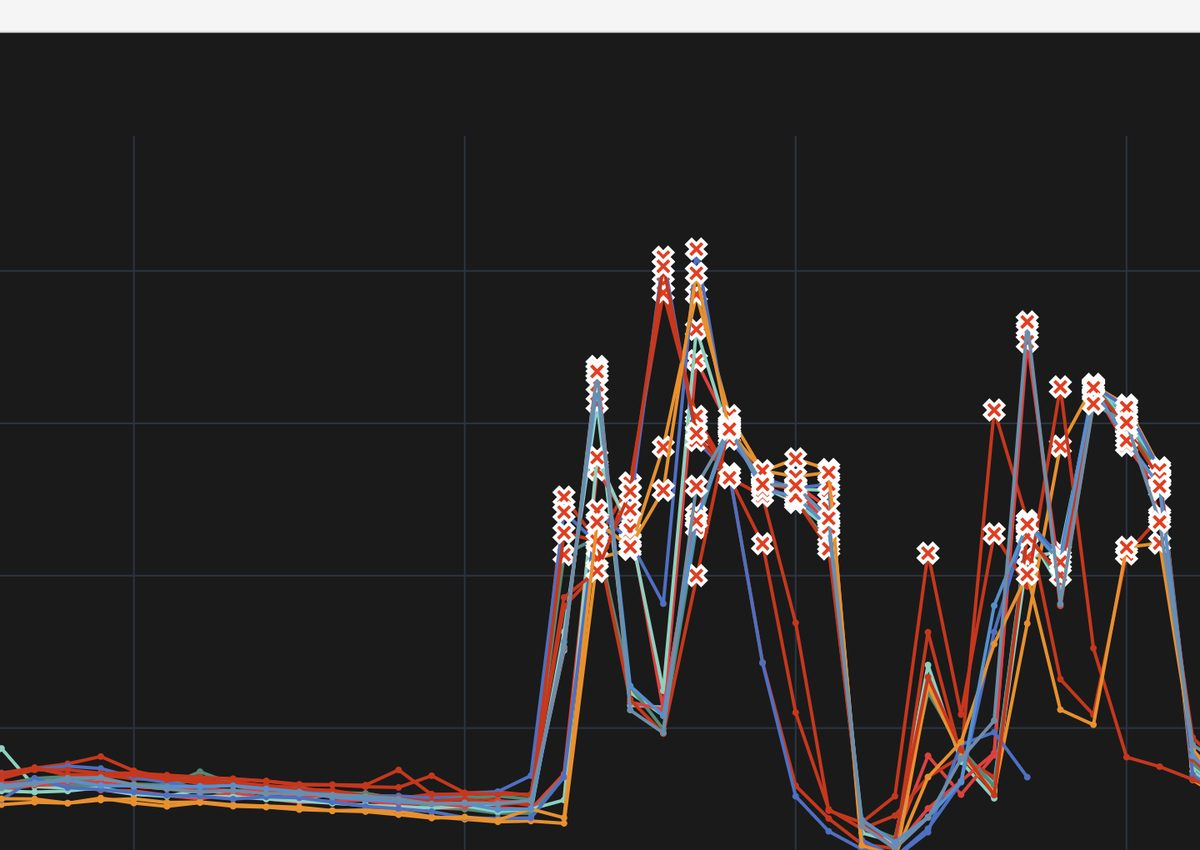
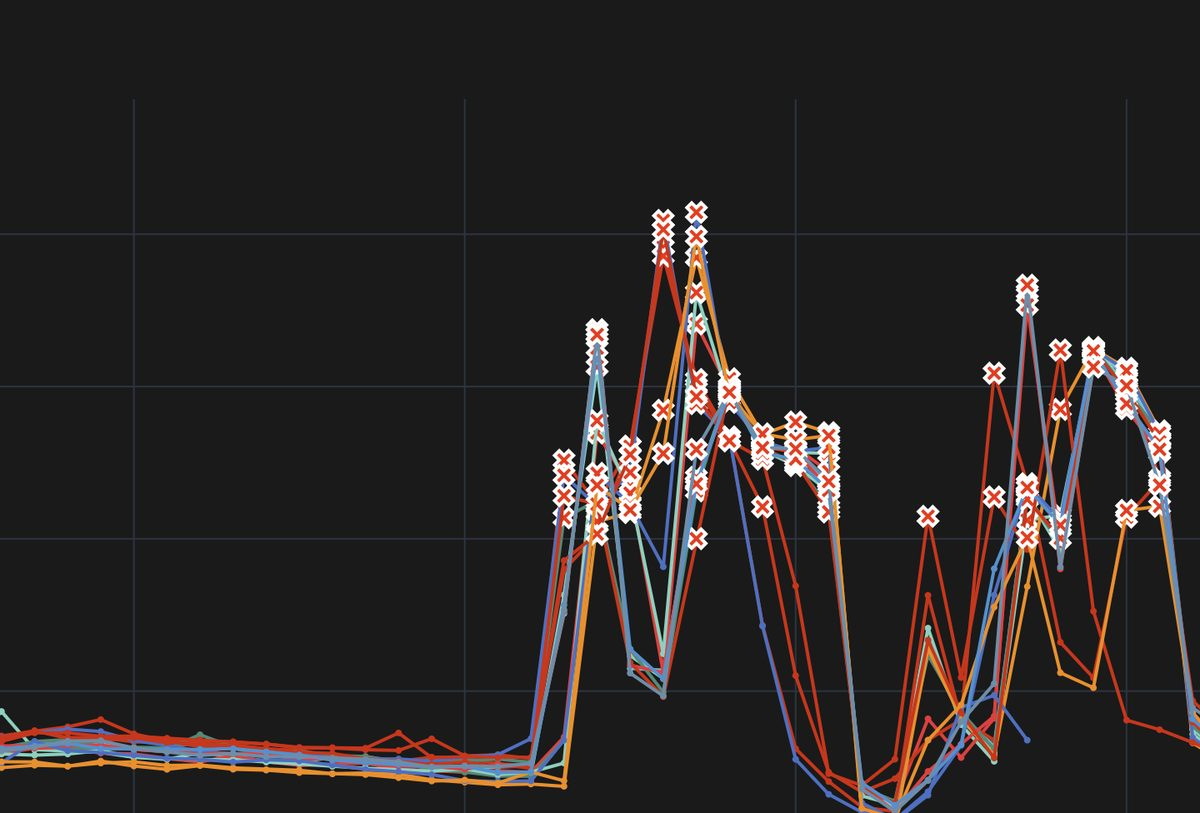
Add a light/dark theme switch that follows the system until toggled

Changed region(s): [[0.0, 0.246, 1.0, 1.0], [0.0, 0.0, 1.0, 0.0615]]

diff --git a/styles.css b/styles.css
@@ -6,6 +6,22 @@
   --muted: #6b6e76;
   --hairline: #ecece8;
   --chip: #f4f4f2;
+  --text-soft: #5b5e66;
+  --line-strong: #d9d9d4;
+  --panel-line: #e6e6e2;
+  --tile: #e9e9e5;
+  --surface: #ffffff;
+  --shadow-soft: rgba(20, 30, 60, 0.12);
+  --mock-rings: #eef0f6;
+  --mock-rulebook: #e9ecf2;
+  --mock-media: #eef2ef;
+  --mock-line: #e4e6ea;
+  --mock-chip: #f1f2f4;
+  --tag-bg: #e5efe9;
+  --tag-fg: #1d5c3d;
+  --btn-dark-bg: #121316;
+  --btn-dark-fg: #f2f2ef;
+  --btn-dark-hover: #000000;
 
   --card: #121316;
   --card-raised: #1c1e23;
@@ -30,12 +46,45 @@
   color-scheme: light;
 }
 
+/* Dark theme: set on <html data-theme="dark"> by the toggle, or from the system setting on first visit */
+:root[data-theme="dark"] {
+  --ground: #0b0c0e;
+  --paper: #141518;
+  --ink: #ecebe7;
+  --text: #c6c8cd;
+  --muted: #979ba4;
+  --hairline: #25272c;
+  --chip: #1f2126;
+  --text-soft: #a8abb2;
+  --line-strong: #34373e;
+  --panel-line: #212328;
+  --tile: #1f2126;
+  --surface: #1c1e22;
+  --shadow-soft: rgba(0, 0, 0, 0.45);
+  --mock-rings: #191c26;
+  --mock-rulebook: #181b22;
+  --mock-media: #161c19;
+  --mock-line: #2e3138;
+  --mock-chip: #26292f;
+  --tag-bg: #1d3328;
+  --tag-fg: #8fd4ae;
+  --btn-dark-bg: #ecebe7;
+  --btn-dark-fg: #121316;
+  --btn-dark-hover: #ffffff;
+  --card: #18191d;
+  --card-raised: #222429;
+  --card-button: #26282e;
+  --blue: #6f8fe0;
+  color-scheme: dark;
+}
+
 *, *::before, *::after { box-sizing: border-box; }
 
 html { scroll-behavior: smooth; -webkit-text-size-adjust: 100%; }
 
 body {
   margin: 0;
+  transition: background-color 300ms ease, color 300ms ease;
   background: var(--ground);
   color: var(--ink);
   font-family: var(--body);
@@ -163,7 +212,7 @@ h1, h2, h3, p { margin: 0; }
 .panel {
   min-width: 0;
   overflow: hidden;
-  border: 1px solid #e6e6e2;
+  border: 1px solid var(--panel-line);
   border-radius: var(--radius-lg);
   background: var(--paper);
 }
@@ -171,8 +220,23 @@ h1, h2, h3, p { margin: 0; }
 .topbar { display: flex; justify-content: space-between; align-items: center; gap: 16px; flex-wrap: wrap; padding: 22px 28px; }
 .pill { padding: 8px 14px; border-radius: 999px; background: var(--chip); font-size: 14px; }
 .pill-link { display: inline-flex; align-items: center; gap: 8px; font-weight: 600; text-decoration: none; transition: background-color 200ms ease, color 200ms ease; }
-.pill-link:hover { background: var(--card); color: var(--card-ink); }
+.pill-link:hover { background: var(--btn-dark-bg); color: var(--btn-dark-fg); }
 .pill-link svg { width: 15px; height: 15px; fill: none; stroke: currentColor; stroke-width: 2; stroke-linecap: round; stroke-linejoin: round; }
+.theme-switch {
+  position: relative; display: inline-flex; align-items: center; justify-content: space-between;
+  width: 72px; height: 38px; padding: 0 10px;
+  border: 0; border-radius: 999px; background: var(--chip); color: var(--muted); cursor: pointer;
+}
+.theme-switch svg { position: relative; z-index: 1; width: 16px; height: 16px; fill: none; stroke: currentColor; stroke-width: 2; stroke-linecap: round; stroke-linejoin: round; transition: color 250ms ease; }
+.theme-switch .knob {
+  position: absolute; top: 4px; left: 4px; width: 30px; height: 30px; border-radius: 50%;
+  background: var(--paper); box-shadow: 0 1px 4px rgba(0, 0, 0, 0.18);
+  transition: transform 300ms cubic-bezier(0.2, 0.8, 0.2, 1);
+}
+.theme-switch .sun { color: var(--ink); }
+.theme-switch[aria-checked="true"] .knob { transform: translateX(34px); background: #3b3e46; box-shadow: 0 1px 4px rgba(0, 0, 0, 0.5); }
+.theme-switch[aria-checked="true"] .sun { color: var(--muted); }
+.theme-switch[aria-checked="true"] .moon { color: #f2f2ef; }
 .local-time time { font-variant-numeric: tabular-nums; }
 .based { text-align: right; font-size: 13px; line-height: 1.3; color: var(--muted); }
 .based strong { color: var(--ink); }
@@ -190,7 +254,7 @@ section { scroll-margin-top: var(--gap); }
   font-size: clamp(56px, 9vw, 112px); line-height: 1; letter-spacing: -0.04em;
   text-wrap: balance;
 }
-.intro { max-width: 48ch; font-size: clamp(17px, 1.6vw, 20px); line-height: 1.6; color: #5b5e66; }
+.intro { max-width: 48ch; font-size: clamp(17px, 1.6vw, 20px); line-height: 1.6; color: var(--text-soft); }
 
 /* gallery */
 .gallery-wrap { position: relative; }
@@ -199,7 +263,7 @@ section { scroll-margin-top: var(--gap); }
 .gallery-btns { display: flex; gap: 8px; }
 .gallery-btn {
   display: grid; place-items: center; width: 44px; height: 44px;
-  border: 1px solid #e0e0db; border-radius: 50%; background: var(--paper); color: var(--ink); cursor: pointer;
+  border: 1px solid var(--line-strong); border-radius: 50%; background: var(--paper); color: var(--ink); cursor: pointer;
   transition: background-color 200ms ease, opacity 200ms ease;
 }
 .gallery-btn:hover { background: var(--chip); }
@@ -219,7 +283,7 @@ section { scroll-margin-top: var(--gap); }
   flex: 0 0 240px; height: 300px;
   padding: 0; border: 0; border-radius: var(--radius-lg);
   overflow: hidden; cursor: zoom-in;
-  background: #e9e9e5;
+  background: var(--tile);
   scroll-snap-align: start;
 }
 .shot img { width: 100%; height: 100%; object-fit: cover; display: block; transition: transform 500ms ease; }
@@ -279,7 +343,7 @@ button.project { padding: 0; border: 0; background: none; font: inherit; color: 
 .project:hover .art { transform: translateY(-4px); }
 .art-rings span { position: absolute; }
 
-.art-rings { background: #eef0f6; }
+.art-rings { background: var(--mock-rings); }
 .art-rings span { left: 50%; top: 50%; transform: translate(-50%, -50%); border-radius: 50%; border: 1.5px solid var(--blue); }
 .art-rings span:nth-child(1) { width: 44%; aspect-ratio: 1; }
 .art-rings span:nth-child(2) { width: 27%; aspect-ratio: 1; }
@@ -301,15 +365,15 @@ button.project { padding: 0; border: 0; background: none; font: inherit; color: 
   box-shadow: 0 2cqw 5cqw rgba(0, 0, 0, 0.35);
 }
 
-.art-rulebook { background: #e9ecf2; }
+.art-rulebook { background: var(--mock-rulebook); }
 .mock-doc {
   left: 7cqw; top: 8cqw; width: 52cqw; height: 66cqw;
   display: flex; flex-direction: column; gap: 3cqw;
-  padding: 6cqw 5cqw; border-radius: 2.4cqw; background: #ffffff;
-  box-shadow: 0 1.5cqw 5cqw rgba(20, 30, 60, 0.12);
+  padding: 6cqw 5cqw; border-radius: 2.4cqw; background: var(--surface);
+  box-shadow: 0 1.5cqw 5cqw var(--shadow-soft);
 }
 .mock-doc-title { font-size: 3cqw; font-weight: 700; line-height: 1.25; margin-bottom: 1.5cqw; }
-.mock-line { display: block; height: 1.8cqw; border-radius: 1cqw; background: #e4e6ea; }
+.mock-line { display: block; height: 1.8cqw; border-radius: 1cqw; background: var(--mock-line); }
 .mock-line.short { width: 64%; }
 .mock-line.hl { background: rgba(200, 16, 46, 0.22); }
 .mock-chat { right: 6cqw; bottom: 8cqw; width: 50cqw; display: flex; flex-direction: column; gap: 2.4cqw; }
@@ -319,34 +383,34 @@ button.project { padding: 0; border: 0; background: none; font: inherit; color: 
 }
 .mock-a {
   display: flex; flex-direction: column; gap: 2cqw; padding: 3.4cqw; border-radius: 4cqw 4cqw 4cqw 1cqw;
-  background: #ffffff; box-shadow: 0 1.5cqw 5cqw rgba(20, 30, 60, 0.12);
+  background: var(--surface); box-shadow: 0 1.5cqw 5cqw var(--shadow-soft);
 }
-.mock-cite { align-self: flex-start; margin-top: 0.8cqw; padding: 1cqw 2.4cqw; border-radius: 99px; background: #f1f2f4; color: #5b5e66; font-size: 2.5cqw; font-weight: 600; }
+.mock-cite { align-self: flex-start; margin-top: 0.8cqw; padding: 1cqw 2.4cqw; border-radius: 99px; background: var(--mock-chip); color: var(--text-soft); font-size: 2.5cqw; font-weight: 600; }
 
-.art-media { background: #eef2ef; }
+.art-media { background: var(--mock-media); }
 .mock-upload {
   left: 8cqw; top: 8cqw; width: 58cqw; height: 60cqw;
-  border-radius: 3cqw; overflow: hidden; background: #ffffff;
-  box-shadow: 0 1.5cqw 5cqw rgba(20, 40, 30, 0.14);
+  border-radius: 3cqw; overflow: hidden; background: var(--surface);
+  box-shadow: 0 1.5cqw 5cqw var(--shadow-soft);
 }
 .mock-upload img { width: 100%; height: 72%; object-fit: cover; display: block; }
 .mock-tags { display: flex; flex-wrap: wrap; gap: 1.6cqw; padding: 2.6cqw; }
-.mock-tags span { padding: 1cqw 2.4cqw; border-radius: 99px; background: #e5efe9; color: #1d5c3d; font-size: 2.6cqw; font-weight: 600; }
+.mock-tags span { padding: 1cqw 2.4cqw; border-radius: 99px; background: var(--tag-bg); color: var(--tag-fg); font-size: 2.6cqw; font-weight: 600; }
 .mock-queue { right: 7cqw; top: 14cqw; display: flex; flex-direction: column; gap: 2.4cqw; }
 .mock-queue span {
-  padding: 2.2cqw 3cqw; border-radius: 2.2cqw; background: #ffffff; color: #3d4047;
-  font-size: 2.7cqw; font-weight: 600; box-shadow: 0 1cqw 3cqw rgba(20, 40, 30, 0.1);
+  padding: 2.2cqw 3cqw; border-radius: 2.2cqw; background: var(--surface); color: var(--text);
+  font-size: 2.7cqw; font-weight: 600; box-shadow: 0 1cqw 3cqw var(--shadow-soft);
 }
 .mock-queue span::before { content: ""; display: inline-block; width: 1.6cqw; height: 1.6cqw; margin-right: 1.6cqw; border-radius: 50%; background: #3ecf8e; vertical-align: middle; }
 
 .view-more { display: flex; justify-content: center; margin-top: 44px; }
 .view-more a {
   display: inline-flex; align-items: center; gap: 10px;
-  padding: 15px 24px; border: 1px solid #d9d9d4; border-radius: 999px;
+  padding: 15px 24px; border: 1px solid var(--line-strong); border-radius: 999px;
   font-weight: 700; text-decoration: none;
   transition: background-color 200ms ease, border-color 200ms ease;
 }
-.view-more a:hover { background: var(--card); border-color: var(--card); color: var(--card-ink); }
+.view-more a:hover { background: var(--btn-dark-bg); border-color: var(--btn-dark-bg); color: var(--btn-dark-fg); }
 .view-more svg { width: 16px; height: 16px; fill: none; stroke: currentColor; stroke-width: 2; stroke-linecap: round; stroke-linejoin: round; }
 
 /* stack */
@@ -384,12 +448,12 @@ button.project { padding: 0; border: 0; background: none; font: inherit; color: 
   font-size: clamp(44px, 6vw, 72px); line-height: 1.02; letter-spacing: -0.035em;
   text-wrap: balance;
 }
-.contact p { font-size: 19px; color: #5b5e66; }
+.contact p { font-size: 19px; color: var(--text-soft); }
 .contact-actions { display: flex; flex-wrap: wrap; justify-content: center; gap: 12px; margin-top: 8px; }
 .btn-dark, .btn-light { padding: 16px 26px; border-radius: 14px; font-weight: 700; text-decoration: none; }
-.btn-dark { background: var(--card); color: var(--card-ink); }
-.btn-dark:hover { color: #ffffff; background: #000000; }
-.btn-light { border: 1px solid #d9d9d4; }
+.btn-dark { background: var(--btn-dark-bg); color: var(--btn-dark-fg); }
+.btn-dark:hover { color: var(--btn-dark-fg); background: var(--btn-dark-hover); }
+.btn-light { border: 1px solid var(--line-strong); }
 
 /* ---------- Dock (small screens) ---------- */
 

diff --git a/index.html b/index.html
@@ -11,6 +11,14 @@
   <meta property="og:type" content="website">
   <meta property="og:image" content="https://naveen.work/images/me.jpg">
   <meta name="theme-color" content="#f4f4f2">
+  <script>
+    (function () {
+      var t = null;
+      try { t = localStorage.getItem("theme"); } catch (e) {}
+      if (t !== "light" && t !== "dark") t = matchMedia("(prefers-color-scheme: dark)").matches ? "dark" : "light";
+      document.documentElement.setAttribute("data-theme", t);
+    })();
+  </script>
   <link rel="icon" href="favicon.ico" sizes="48x48">
   <link rel="icon" href="favicon.svg" type="image/svg+xml">
   <link rel="icon" href="favicon-32.png" type="image/png" sizes="32x32">
@@ -18,7 +26,7 @@
   <link rel="preconnect" href="https://fonts.googleapis.com">
   <link rel="preconnect" href="https://fonts.gstatic.com" crossorigin>
   <link href="https://fonts.googleapis.com/css2?family=Urbanist:wght@200..800&family=Figtree:wght@400..700&display=swap" rel="stylesheet">
-  <link rel="stylesheet" href="styles.css?v=15">
+  <link rel="stylesheet" href="styles.css?v=17">
 </head>
 <body>
   <a class="skip" href="#about">Skip to content</a>
@@ -75,9 +83,11 @@
 
     <main class="panel">
       <div class="topbar">
-        <a class="pill pill-link" href="resume.pdf">Resume
-          <svg viewBox="0 0 24 24" aria-hidden="true"><path d="M12 4v11M7 10l5 5 5-5M5 20h14"/></svg>
-        </a>
+        <button class="theme-switch" type="button" role="switch" aria-checked="false" aria-label="Dark mode">
+          <span class="knob" aria-hidden="true"></span>
+          <svg class="sun" viewBox="0 0 24 24" aria-hidden="true"><circle cx="12" cy="12" r="4"/><path d="M12 2v2M12 20v2M4.9 4.9l1.4 1.4M17.7 17.7l1.4 1.4M2 12h2M20 12h2M4.9 19.1l1.4-1.4M17.7 6.3l1.4-1.4"/></svg>
+          <svg class="moon" viewBox="0 0 24 24" aria-hidden="true"><path d="M20 14.5A8 8 0 0 1 9.5 4a8 8 0 1 0 10.5 10.5z"/></svg>
+        </button>
         <p class="based"><span class="local-time" hidden>Local time <time></time></span><span class="based-fallback">Based in</span><br><strong>San Diego, California</strong></p>
       </div>
 
@@ -182,7 +192,7 @@
         <h3 class="sub-head">Certifications</h3>
         <ul class="cert-list">
           <li><a href="https://credentials.databricks.com/40d12435-799b-4984-bdb4-8c66391e4cd3"><img class="cert-logo" src="images/logos/databricks.svg" alt="" width="28" height="28"><span class="issuer">Databricks</span>Data Engineer Professional</a></li>
-          <li><a href="https://www.credly.com/badges/3815c736-94d8-40ad-9cb2-5409cbd5bb85/public_url"><img class="cert-logo" src="images/logos/aws.svg" alt="" width="28" height="28"><span class="issuer">AWS</span>Machine Learning Engineer, Associate</a></li>
+          <li><a href="https://www.credly.com/badges/3815c736-94d8-40ad-9cb2-5409cbd5bb85/public_url"><img class="cert-logo" src="images/logos/aws.svg?v=2" alt="" width="28" height="28"><span class="issuer">AWS</span>Machine Learning Engineer, Associate</a></li>
           <li><a href="https://www.credly.com/badges/326831b9-6013-41b9-977f-b69a1c5ce708/public_url"><img class="cert-logo" src="images/logos/google-cloud.svg" alt="" width="28" height="28"><span class="issuer">Google Cloud</span>Professional Machine Learning Engineer</a></li>
         </ul>
       </section>
@@ -199,7 +209,7 @@
           </button>
           <a class="project" href="https://github.com/Messinavu10/formula-1-bot">
             <div class="art art-shot" aria-hidden="true">
-              <img src="images/projects/f1bot-lap-times.jpg" alt="" loading="lazy">
+              <img src="images/projects/f1bot-lap-times.jpg?v=2" alt="" loading="lazy">
               <span class="mock-bubble">Visualize the lap time progression for the Australian GP</span>
             </div>
             <span class="project-tag">Public repo</span>
@@ -327,6 +337,6 @@
     </button>
   </dialog>
 
-  <script src="script.js?v=15"></script>
+  <script src="script.js?v=17"></script>
 </body>
 </html>

diff --git a/script.js b/script.js
@@ -9,6 +9,31 @@
     });
   }
 
+  // ---- Theme switch (light / dark) ----
+  const root = document.documentElement;
+  const themeSwitch = document.querySelector(".theme-switch");
+  const themeMeta = document.querySelector('meta[name="theme-color"]');
+  const applyTheme = (theme) => {
+    root.setAttribute("data-theme", theme);
+    if (themeSwitch) themeSwitch.setAttribute("aria-checked", String(theme === "dark"));
+    if (themeMeta) themeMeta.setAttribute("content", theme === "dark" ? "#0b0c0e" : "#f4f4f2");
+  };
+  applyTheme(root.getAttribute("data-theme") === "dark" ? "dark" : "light");
+  if (themeSwitch) {
+    themeSwitch.addEventListener("click", () => {
+      const next = root.getAttribute("data-theme") === "dark" ? "light" : "dark";
+      applyTheme(next);
+      try { localStorage.setItem("theme", next); } catch (e) {}
+    });
+  }
+  // Until someone picks a theme, keep following the system setting.
+  const systemDark = window.matchMedia("(prefers-color-scheme: dark)");
+  systemDark.addEventListener?.("change", (e) => {
+    let saved = null;
+    try { saved = localStorage.getItem("theme"); } catch (err) {}
+    if (!saved) applyTheme(e.matches ? "dark" : "light");
+  });
+
   // ---- Local time in San Diego (Pacific Time, whatever the visitor's zone) ----
   const clock = document.querySelector(".local-time");
   if (clock && window.Intl) {
